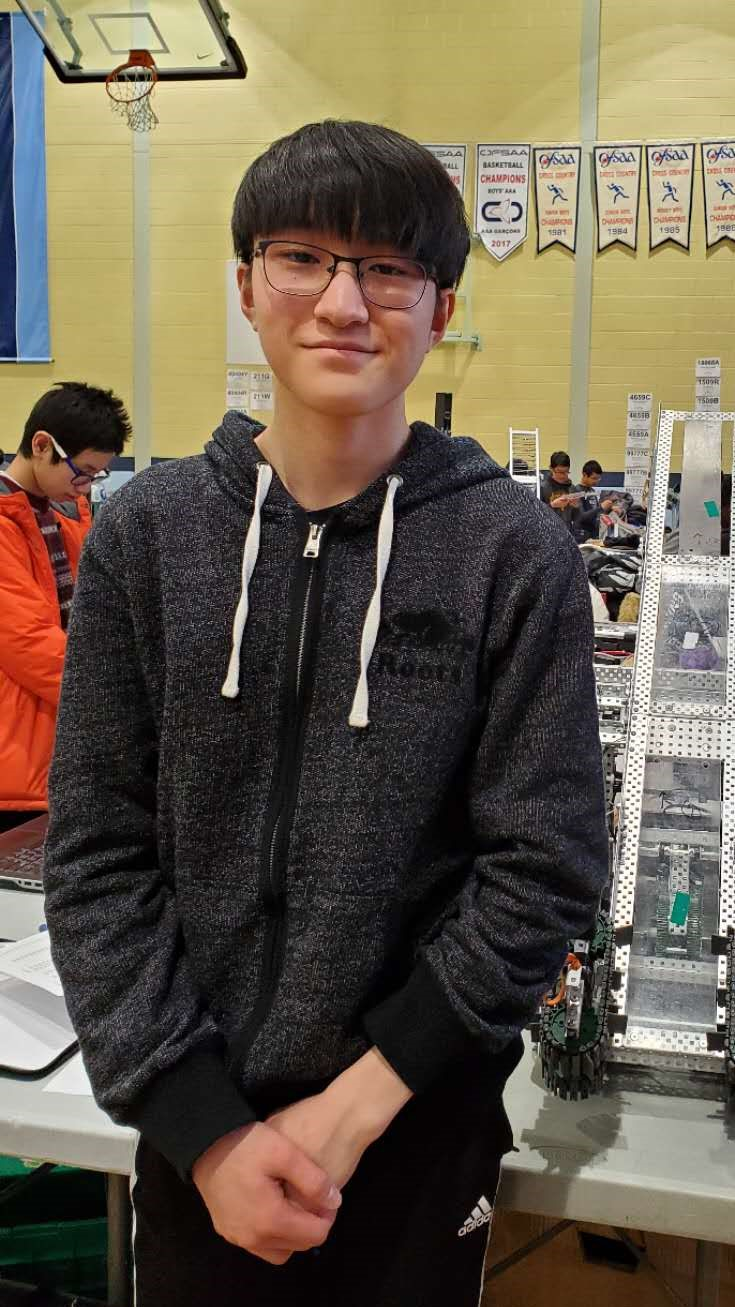
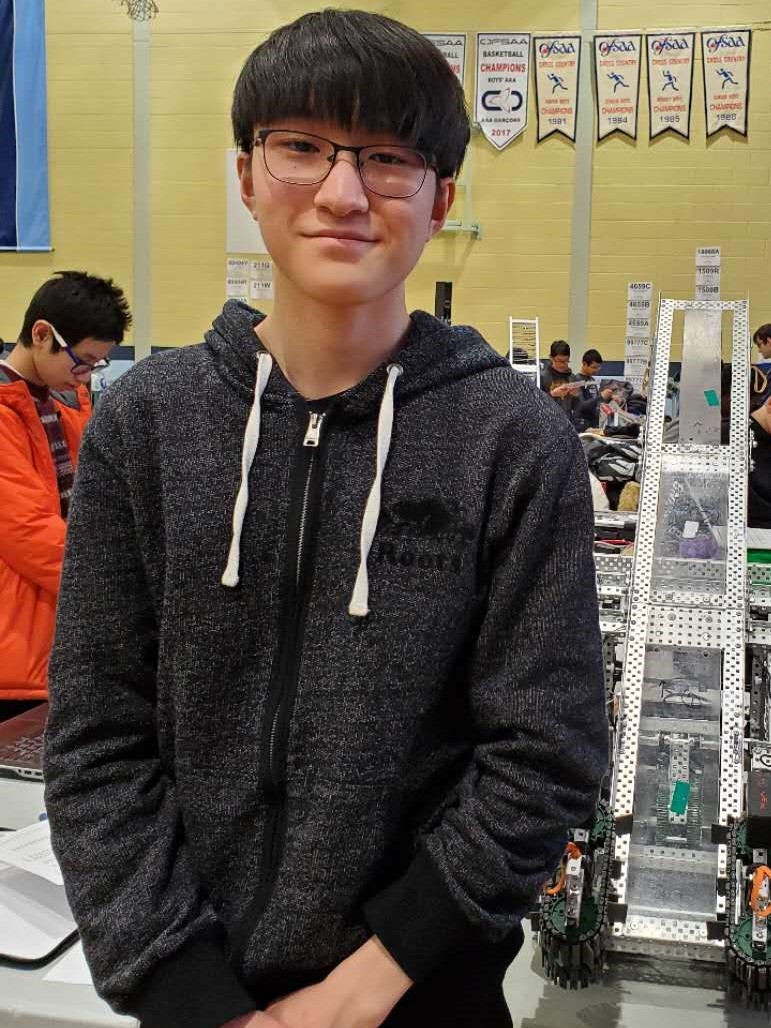
hacky solution for member images cutting off on mobile

diff --git a/stylesheets/index.css b/stylesheets/index.css
@@ -195,9 +195,6 @@ nav {
 }
 
 @media (max-width: 767px) {
-  .teamMemberImage {
-    height: 50vh;
-  }
   .teamMemberDesc.row {
     margin-right: 0;
     margin-left: 0;
@@ -213,6 +210,10 @@ nav {
   background-size: cover;
   background-position: center center;
   background-repeat: no-repeat;
+}
+
+.teamMemberImage img{
+  width: 100%;
 }
 
 .teamMemberDesc .jumbotron {

diff --git a/Member-Ivory.html b/Member-Ivory.html
@@ -64,6 +64,7 @@
                 </div>
             </div>
             <div class="col-md-4 teamMemberImage" style="background-image: url(img/photo-ivory-1.jpg)">
+				<img src="img/photo-ivory-1.jpg" style="visibility: hidden;" />
             </div>
         </div>
         <div class="row mt-4 align-center">

diff --git a/Member-Kevin.html b/Member-Kevin.html
@@ -62,6 +62,7 @@
                 </div>
             </div>
             <div class="col-md-4 teamMemberImage" style="background-image: url(img/photo-kevin-1.jpg)">
+				<img src="img/photo-kevin-1.jpg" style="visibility: hidden;" />
             </div>
         </div>
         <div class="row mt-4 align-center">

diff --git a/Member-Andrew.html b/Member-Andrew.html
@@ -72,6 +72,7 @@
 				</div>
 			</div>
 			<div class="col-md-4 teamMemberImage" style="background-image: url(img/photo-Andrew-1.jpg)">
+				<img src="img/photo-Andrew-1.jpg" style="visibility: hidden;" />
 			</div>
 		</div>
 		<div class="row mt-4 align-center">

diff --git a/Member-Yiti.html b/Member-Yiti.html
@@ -69,6 +69,7 @@
 				</div>
 			</div>
 			<div class="col-md-4 teamMemberImage" style="background-image: url(img/photo-Yiti-1.jpg)">
+				<img src="img/photo-Yiti-1.jpg" style="visibility: hidden;" />
 			</div>
 		</div>
 		<div class="row mt-4 align-center">

diff --git a/Member-Leo.html b/Member-Leo.html
@@ -69,6 +69,7 @@
 				</div>
 			</div>
 			<div class="col-md-4 teamMemberImage" style="background-image: url(img/photo-Leo-1.jpg)">
+				<img src="img/photo-Leo-1.jpg" style="visibility: hidden;" />
 			</div>
 		</div>
 		<div class="row mt-4 align-center">
